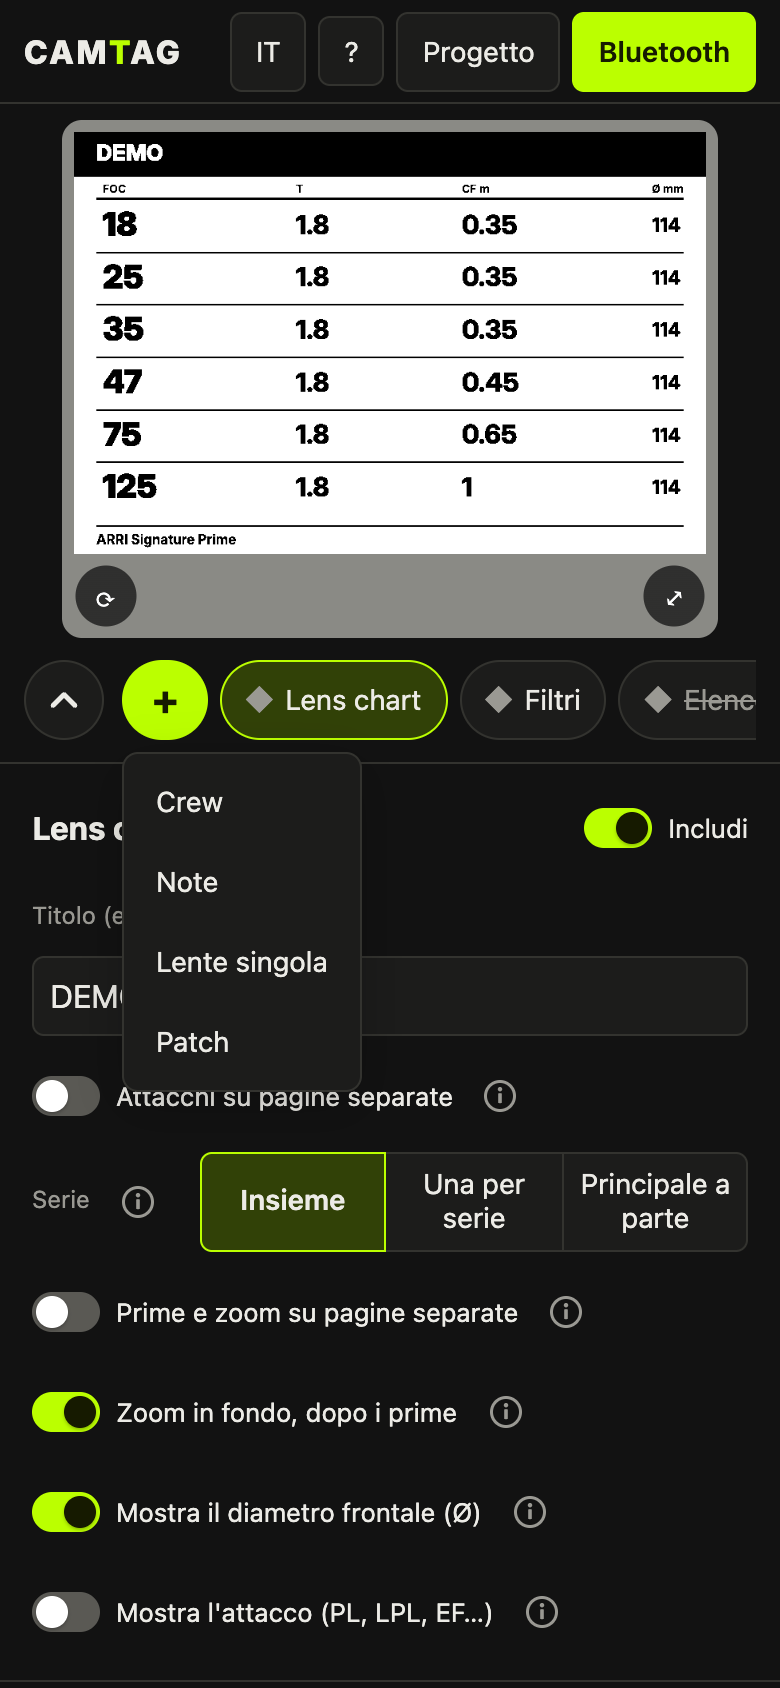
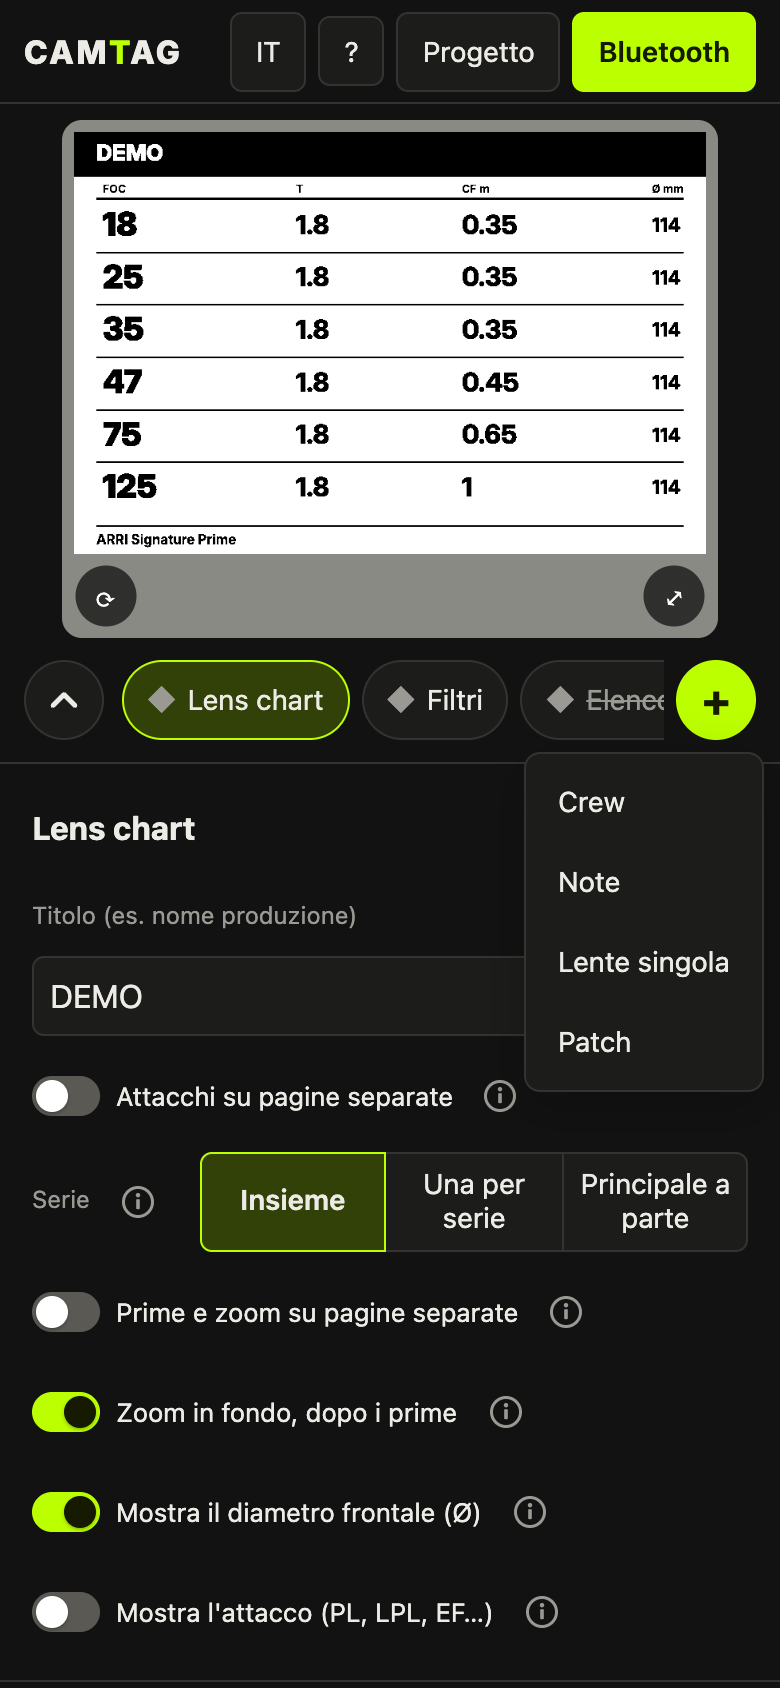
Note con grassetto e corsivo; + fisso a destra della striscia
- Testo delle note: **grassetto**, *corsivo*, ***tutti e due*** (richRuns,
  wrapRich), spiegato dietro la ⓘ.
- Il + per aggiungere schermate sta fuori dalla striscia che scorre, a
  destra, speculare alla freccia dell'anteprima (da 1099 px in giù).
- Manuali: schermate del telefono rifatte, + "in fondo" alla striscia,
  formattazione delle note.

diff --git a/companion/index.html b/companion/index.html
@@ -304,6 +304,9 @@
     #list li { flex: none; }
     .scr { display: flex; gap: 6px; max-width: 190px; border: 1px solid var(--line); border-radius: 999px; background: var(--panel); padding: 6px 12px; }
     #list li.sel .scr { border-color: var(--accent); box-shadow: none; }
+    /* "+" fuori dalla striscia, così resta in vista anche con tante schermate. */
+    .screens { display: flex; align-items: center; gap: 6px; }
+    .screens .scr-row { flex: 1; min-width: 0; }
     #addBtn { flex: none; width: auto; border-radius: 999px; }
   }
   /* Telefono: niente zoom con le dita (lo zoom dell'anteprima è il tutto schermo). */
@@ -321,14 +324,12 @@
     .work.nopreview .stagecol { display: none; }
     /* Freccia dell'anteprima fuori dalla striscia, così non scorre via con le schermate:
        in su chiude, in giù apre. */
-    .screens { display: flex; align-items: center; gap: 6px; }
-    .screens .scr-row { flex: 1; min-width: 0; }
     #prevTog { display: flex; align-items: center; justify-content: center; flex: none; width: 40px; height: 40px; padding: 0; border-radius: 999px; }
     #prevTog svg { transition: transform .15s; }
     #prevTog[aria-expanded="false"] svg { transform: rotate(180deg); }
-    /* "+" subito dopo l'anteprima, sempre in vista anche con tante schermate, e nel verde. */
-    #addBtn { order: -1; background: var(--accent); color: var(--accent-ink); border-color: var(--accent); font-size: 20px; font-weight: 700;
-              line-height: 1; padding: 0 14px; }
+    /* "+" a destra della striscia, speculare alla freccia, nel verde. */
+    #addBtn { display: flex; align-items: center; justify-content: center; width: 40px; height: 40px; padding: 0;
+              background: var(--accent); color: var(--accent-ink); border-color: var(--accent); font-size: 22px; font-weight: 700; line-height: 1; }
     .screens { order: 2; }
     /* Il simulatore serve da computer: sul telefono resta solo l'anteprima. */
     #modeRow, .pbar, #previewNote { display: none; }
@@ -439,8 +440,8 @@
       <button id="prevTog" aria-expanded="true" title="Nascondi o mostra l'anteprima" aria-label="Nascondi o mostra l'anteprima"><svg viewBox="0 0 24 24" width="22" height="22" aria-hidden="true"><path d="M6 15l6-6 6 6" fill="none" stroke="currentColor" stroke-width="2.6" stroke-linecap="round" stroke-linejoin="round"/></svg></button>
       <div class="scr-row">
         <ul id="list"></ul>
-        <button id="addBtn" title="Aggiungi una schermata">+<span class="l"> Aggiungi</span></button>
       </div>
+      <button id="addBtn" title="Aggiungi una schermata">+<span class="l"> Aggiungi</span></button>
       <p class="hint">Lens chart e Filtri si generano da soli. L'ordine qui è l'ordine sul dispositivo.</p>
     </section>
 
@@ -1465,12 +1466,53 @@ function drawNotes(ctx, W, H, c) {
   }
   let size = Math.round(H * 0.1), lines;
   for (; size > 14; size -= 2) {
-    ctx.font = `600 ${size}px ${FONT}`;
-    lines = wrap(ctx, c.body, W - pad * 2);
+    lines = wrapRich(ctx, c.body, W - pad * 2, size);
     if (lines.length * size * 1.25 <= H - top - pad) break;
   }
-  ctx.font = `600 ${size}px ${FONT}`;
-  lines.forEach((l, i) => ctx.fillText(l, pad, top + size * (i + 1) * 1.25 - size * 0.25));
+  lines.forEach((l, i) => {
+    let x = pad;
+    for (const r of l) { ctx.font = richFont(r, size); ctx.fillText(r.t, x, top + size * (i + 1) * 1.25 - size * 0.25); x += ctx.measureText(r.t).width; }
+  });
+}
+// Testo delle note con un po' di markdown: **grassetto**, *corsivo*, ***tutti e due***
+// (anche uno dentro l'altro). Un segno senza chiusura resta com'è. Il corsivo è
+// l'Inter dritto inclinato dal browser: nel repo c'è solo il font dritto.
+const RICH = /(\*\*\*|\*\*|\*)([^\s*](?:.*?[^\s*])??)\1/;
+function richRuns(text, b = false, i = false) {
+  const out = [];
+  while (text) {
+    const m = RICH.exec(text);
+    if (!m) { out.push({ t: text, b, i }); break; }
+    if (m.index) out.push({ t: text.slice(0, m.index), b, i });
+    const k = m[1].length;
+    out.push(...richRuns(m[2], b || k >= 2, i || k !== 2));
+    text = text.slice(m.index + m[0].length);
+  }
+  return out;
+}
+function richFont(r, size) { return `${r.i ? 'italic ' : ''}${r.b ? 800 : 600} ${size}px ${FONT}`; }
+// Come wrap(), ma ogni riga è una lista di pezzi { t, b, i }.
+function wrapRich(ctx, text, maxW, size) {
+  const out = [];
+  const w = r => { ctx.font = richFont(r, size); return ctx.measureText(r.t).width; };
+  for (const para of String(text).split('\n')) {
+    if (!para.trim()) { out.push([]); continue; }
+    // Parole con i loro pezzi: uno spazio chiude la parola, un cambio di stile no.
+    const words = [[]];
+    for (const r of richRuns(para)) r.t.split(/(\s+)/).forEach((t, j) => {
+      if (j % 2) { if (words.at(-1).length) words.push([]); } else if (t) words.at(-1).push({ ...r, t });
+    });
+    let line = [], lineW = 0;
+    const space = r => w({ ...r, t: ' ' });
+    for (const word of words.filter(x => x.length)) {
+      const ww = word.reduce((a, r) => a + w(r), 0), sp = line.length ? space(word[0]) : 0;
+      if (line.length && lineW + sp + ww > maxW) { out.push(line); line = []; lineW = 0; }
+      if (line.length) { line.push({ ...word[0], t: ' ' }); lineW += space(word[0]); }
+      line.push(...word); lineW += ww;
+    }
+    out.push(line);
+  }
+  return out;
 }
 
 function drawPatch(ctx, W, H, c) {
@@ -2614,7 +2656,9 @@ function cardEditor(ed, c, idx) {
     ed.append(field(c, 'Titolo', 'title'));
     rowsEditor(ed, c);
   } else if (c.type === 'notes') {
-    ed.append(field(c, 'Titolo', 'title'), fillArea(field(c, 'Testo', 'body', 'textarea')));
+    const body = fillArea(field(c, 'Testo', 'body', 'textarea'));
+    body.querySelector('.lab').append(info('Formattazione: **grassetto**, *corsivo*.'));
+    ed.append(field(c, 'Titolo', 'title'), body);
   } else {
     imageControls(ed, c);
     ed.append(field(c, 'Inverti colori', 'invert', 'checkbox'), field(c, 'Didascalia (opzionale)', 'caption'));

diff --git a/companion/manual/index.html b/companion/manual/index.html
@@ -456,7 +456,7 @@
       <ol class="steps">
         <li><strong>The lenses.</strong> The first time you'll find an example kit: five Cooke S4/i primes, two Angénieux Optimo zooms, the NDs and the Black Pro-Mists; remove what you don't have with ✕. Open <strong>Lens chart</strong> and type the title, usually the production name. In <strong>Lens database</strong> search for brand, series or focal length (for example “signature 35”), tap the series to see its focal lengths, then <strong>+</strong> for one lens or <strong>+ all</strong> for the whole series. If the series comes in more than one mount, it asks which. Beyond 11 lenses the pages split by themselves.</li>
         <li><strong>The filters.</strong> In <strong>Filters</strong> tick the NDs and diopters in your kit and add the other glasses from the <strong>Glass catalog</strong>. In <strong>Matte box and starting values</strong> choose how many stages the matte box has and what's mounted: on set you change it from the X3 (<a href="#filters">Filter screen</a>, <a href="#editing">Editing the stages</a>).</li>
-        <li><strong>The other cards.</strong> With <strong>+</strong> (on a phone, the green button at the start of the screens strip) add <strong>Crew</strong>, <strong>Notes</strong>, <strong>Single lens</strong> or <strong>Patch</strong>, an image such as a logo or a QR code. Reorder them with ↑ and ↓ at the top of the editor.</li>
+        <li><strong>The other cards.</strong> With <strong>+</strong> (on a phone, the green button at the end of the screens strip) add <strong>Crew</strong>, <strong>Notes</strong>, <strong>Single lens</strong> or <strong>Patch</strong>, an image such as a logo or a QR code. In the notes text <code>**this**</code> becomes bold and <code>*this*</code> italic. Reorder them with ↑ and ↓ at the top of the editor.</li>
         <li><strong>When it's off.</strong> In <strong>Off</strong> choose what stays on the screen when you turn the X3 off: some text (a name, a contact) or an image.</li>
         <li><strong>Send the cards</strong> to the X3 with <strong>Bluetooth</strong>, as the <a href="#bluetooth">next section</a> explains.</li>
       </ol>

diff --git a/companion/manuale/index.html b/companion/manuale/index.html
@@ -456,7 +456,7 @@
       <ol class="steps">
         <li><strong>Le lenti.</strong> La prima volta trovi un kit di esempio: cinque prime Cooke S4/i, due zoom Angénieux Optimo, gli ND e i Black Pro-Mist; togli con ✕ quello che non hai. Apri <strong>Lens chart</strong> e scrivi il titolo, di solito il nome della produzione. In <strong>Database lenti</strong> cerca marca, serie o focale (per esempio “signature 35”), tocca la serie per vedere le focali, poi <strong>+</strong> per una lente o <strong>+ tutte</strong> per la serie intera. Se la serie esiste con più attacchi, ti chiede quale. Oltre le 11 lenti le pagine si dividono da sole.</li>
         <li><strong>I filtri.</strong> In <strong>Filtri</strong> spunta gli ND e le diottrie del kit e aggiungi gli altri vetri dal <strong>Catalogo vetri</strong>. In <strong>Mattebox e valori di partenza</strong> scegli quanti stadi ha il mattebox e cosa c'è montato: sul set lo cambi dall'X3 (<a href="#filtri">Schermata filtri</a>, <a href="#modifica">Modificare gli stadi</a>).</li>
-        <li><strong>Le altre schede.</strong> Con <strong>+</strong> (sul telefono è il pulsante verde all'inizio della striscia delle schermate) aggiungi <strong>Crew</strong>, <strong>Note</strong>, <strong>Lente singola</strong> o <strong>Patch</strong>, un'immagine come un logo o un QR. Si riordinano con ↑ e ↓ in cima all'editor.</li>
+        <li><strong>Le altre schede.</strong> Con <strong>+</strong> (sul telefono è il pulsante verde in fondo alla striscia delle schermate) aggiungi <strong>Crew</strong>, <strong>Note</strong>, <strong>Lente singola</strong> o <strong>Patch</strong>, un'immagine come un logo o un QR. Nel testo delle note <code>**così**</code> diventa grassetto e <code>*così*</code> corsivo. Si riordinano con ↑ e ↓ in cima all'editor.</li>
         <li><strong>Da spento.</strong> In <strong>Spento</strong> scegli cosa resta sullo schermo quando spegni l'X3: una scritta (un nome, un contatto) o un'immagine.</li>
         <li><strong>Manda le card</strong> all'X3 con <strong>Bluetooth</strong>, come spiega la <a href="#bluetooth">sezione successiva</a>.</li>
       </ol>

diff --git a/companion/i18n.js b/companion/i18n.js
@@ -319,6 +319,7 @@ const I18N_EN = {
   'Nessuna riga': 'No rows',
   '+ Aggiungi una riga': '+ Add a row',
   'Testo': 'Text',
+  'Formattazione: **grassetto**, *corsivo*.': 'Formatting: **bold**, *italic*.',
   'Inverti colori': 'Invert colors',
   'Didascalia (opzionale)': 'Caption (optional)',
   "Il file non è un'immagine leggibile.": 'The file is not a readable image.',

diff --git a/CLAUDE.md b/CLAUDE.md
@@ -53,7 +53,7 @@ costruttori di lenti e filtri nei dati vanno bene.
   Barra e anteprima restano fisse mentre l'editor scorre: tre colonne da 1100 px,
   due da 700 (striscia delle schermate e anteprima a sinistra), sotto i 700
   anteprima compatta in alto che si apre a tutto schermo e si richiude dalla
-  freccia a sinistra della striscia (`#prevTog`, fuori dallo scorrimento; `ui.prevHidden`, aperta di partenza; scorrendo giù l'editor si toglie da sola, `autoHid`, e torna all'inizio dell'editor o dalla freccia), senza zoom con le dita; `fitStage` tiene
+  freccia a sinistra della striscia (`#prevTog`, fuori dallo scorrimento come il + speculare a destra, `#addBtn`, che lo è da 1099 px in giù; `ui.prevHidden`, aperta di partenza; scorrendo giù l'editor si toglie da sola, `autoHid`, e torna all'inizio dell'editor o dalla freccia), senza zoom con le dita; `fitStage` tiene
   anteprima e simulatore dentro lo schermo (il simulatore si scala). Nell'editor
   le sezioni richiudibili si fanno con `section()` e le spiegazioni stanno dietro
   una ⓘ (`info()`): in chiaro restano solo avvisi e stati vuoti. Le preferenze
@@ -63,7 +63,9 @@ costruttori di lenti e filtri nei dati vanno bene.
   `?dev=0` la spegne) e la classe `devmode` sul body mostra gli elementi
   `.dev-only`; oggi "Registro batteria" e il `.bin` scelto con Maiusc su
   "Aggiorna firmware". Le funzioni che servono solo a chi prova il firmware
-  vanno lì. Lo zip delle card si scarica dal menu Progetto.
+  vanno lì. Lo zip delle card si scarica dal menu Progetto. Il testo delle note
+  accetta `**grassetto**` e `*corsivo*` (`richRuns`; il corsivo è l'Inter dritto
+  inclinato dal browser, nel repo non c'è il file italic).
   Nei testi per l'utente si chiama sempre **configuratore web** (in inglese
   *web configurator*), mai "strumento" o "app".
 - `companion/install/` — prima installazione e ripristino via USB dal browser
